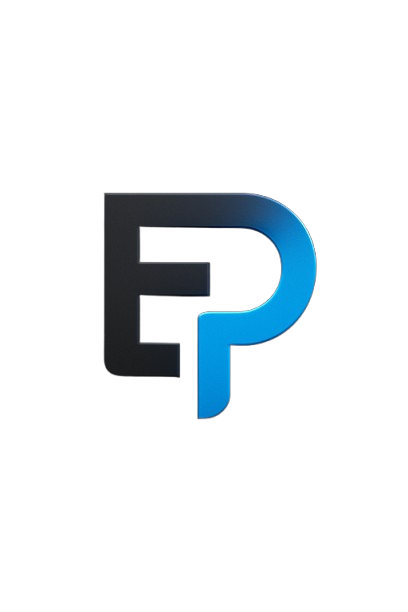
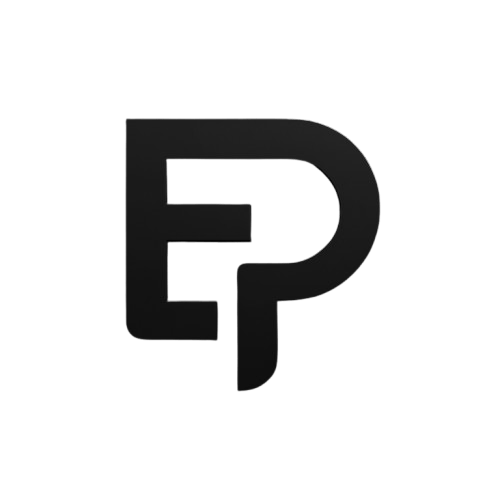
Refactor: UI refactor and footer expansion

Changed region(s): [[0.2353, 0.21, 0.7941, 0.78]]

diff --git a/components/landing/TestimonialSection.jsx b/components/landing/TestimonialSection.jsx
@@ -5,44 +5,44 @@ const TestimonialSection = () => {
     <div id="testimonials" className="m-auto max-w-7xl w-[80%]">
         <p className="section-header">TESTIMONIALS</p>
         <div className="flex justify-center">
-        <div className="grid grid-cols-1 max-w-[12800px] md:grid-cols-2 xl:grid-cols-3 justify-items-center gap-4 xl:gap-6">
-        <TestimonialCard 
-            name={'Kelvin Katwai'}
-            occupation={'Data Scientist Enthusiast'} 
-            testimonial={'What I appreciated most was how straightforward everything felt. The layout is clean, and I didn’t have to fight with the structure to make it my own.'} 
-            testimonailPic={"/assets/testimonials/katwai.jpg"}
-        />
-        <TestimonialCard 
-            name={'Kalama Ayubu'}
-            occupation={'Fullstack developer / Freelancer'} 
-            testimonial={'I used to dread updating my portfolio. EasyPortfolio made it feel like fun.'} 
-            testimonailPic={"/assets/testimonials/me.jpg"}
-        />
-        <TestimonialCard 
-            name={'Rasoa Kadzo'} 
-            occupation={'Product Designer'} 
-            testimonial={'For someone outside traditional dev workflows, it was refreshing to find a setup I could navigate and present my profile without technical overhead.'} 
-            testimonailPic={"/assets/testimonials/siz.jpg"}
-        />
-        <TestimonialCard 
-            name={'Joseph Kagwe'} 
-            occupation={'Economist / Product Manager'} 
-            testimonial={'For someone outside traditional dev workflows, it was refreshing to find a setup I could navigate and present my profile without technical overhead.'} 
-            testimonailPic={"/assets/testimonials/kagwe.jpg"}
-        />
-        <TestimonialCard 
-            name={'Kenyan Ely'} 
-            occupation={'Journalist / Content Creator'} 
-            testimonial={'I wanted a site that reflects professionalism without overcomplicating the process. This did exactly that — and the writing-focused layout helped.'} 
-            testimonailPic={"/assets/testimonials/me3.jpg"}
-        />
-        <TestimonialCard 
-            name={'Joe Indogwa'} 
-            occupation={'Frontend Developer / Tutor'} 
-            testimonial={'It’s ideal for developers who want to showcase projects cleanly. My students even found it useful as a real-world example of modern dev presentation.'} 
-            testimonailPic={"/assets/testimonials/me2.jpg"}
-        />
-        </div>
+            <div className="grid grid-cols-1 max-w-[12800px] md:grid-cols-2 xl:grid-cols-3 justify-items-center gap-4 xl:gap-6">
+                <TestimonialCard 
+                    name={'Kelvin Katwai'}
+                    occupation={'Data Scientist Enthusiast'} 
+                    testimonial={'What I appreciated most was how straightforward everything felt. The layout is clean, and I didn’t have to fight with the structure to make it my own.'} 
+                    testimonailPic={"/assets/testimonials/katwai.jpg"}
+                />
+                <TestimonialCard 
+                    name={'Kalama Ayubu'}
+                    occupation={'Fullstack developer / Freelancer'} 
+                    testimonial={'I used to dread updating my portfolio. EasyPortfolio made it feel like fun.'} 
+                    testimonailPic={"/assets/testimonials/me.jpg"}
+                />
+                <TestimonialCard 
+                    name={'Rasoa Kadzo'} 
+                    occupation={'Product Designer'} 
+                    testimonial={'For someone outside traditional dev workflows, it was refreshing to find a setup I could navigate and present my profile without technical overhead.'} 
+                    testimonailPic={"/assets/testimonials/siz.jpg"}
+                />
+                <TestimonialCard 
+                    name={'Joseph Kagwe'} 
+                    occupation={'Economist / Product Manager'} 
+                    testimonial={'For someone outside traditional dev workflows, it was refreshing to find a setup I could navigate and present my profile without technical overhead.'} 
+                    testimonailPic={"/assets/testimonials/kagwe.jpg"}
+                />
+                <TestimonialCard 
+                    name={'Kenyan Ely'} 
+                    occupation={'Journalist / Content Creator'} 
+                    testimonial={'I wanted a site that reflects professionalism without overcomplicating the process. This did exactly that — and the writing-focused layout helped.'} 
+                    testimonailPic={"/assets/testimonials/me3.jpg"}
+                />
+                <TestimonialCard 
+                    name={'Joe Indogwa'} 
+                    occupation={'Frontend Developer / Tutor'} 
+                    testimonial={'It’s ideal for developers who want to showcase projects cleanly. My students even found it useful as a real-world example of modern dev presentation.'} 
+                    testimonailPic={"/assets/testimonials/me2.jpg"}
+                />
+            </div>
         </div>
     </div>
   )

diff --git a/components/Footer.jsx b/components/Footer.jsx
@@ -1,17 +1,43 @@
+import Image from "next/image";
+import Link from "next/link";
+import { LinkedinIcon, TelegramIcon, TwitterIcon, WhatsappIcon } from "react-share";
+
 const Footer = () => {
   return (
-    <div id="footer" className="w-full bg-gray-300 mt-20 p-4">
-      <div className="max-w-[1200px] m-auto text-center">
-        <p className="text-gray-700 text-sm">
-          © {new Date().getFullYear()} Easy Portfolio. All rights reserved.
-        </p>
-        <p className="text-gray-500 text-xs mt-2">
-          Build with ❤ by Easy portfolio team
-        </p>
-      </div>
+    <>
+    <div id="footer" className="w-full bg-gray-200 mt-20 p-4 pb-0 px-0 lg:pb-4">
+      <div className="max-w-[1280px] m-auto flex flex-col">
+        <div className="flex flex-col lg:items-start mb-20">
+          <div className="flex items-end">
+            <Image 
+              height={200} 
+              width={200} 
+              src={'/assets/EP.png'} 
+              className="w-28 -rotate-90"
+            />
+            <p className="-translate-y-6 -translate-x-6 flex">@ <Link href={'https://easyportfolioo.netlify.app'} className="hover:text-blue-600">easyportfolioo.netlify.app</Link></p>
+          </div>
+          <p className="translate-x-6 -translate-y-5"> #Build Your  <span className="purple-gradient-text">Portfolio</span> in Minutes</p> 
+        </div>
 
-      <div></div>
+        <div className="flex flex-col lg:flex-row border-t border-gray-500 lg:items-center justify-between ml-6">
+          <p className="text-gray-700 text-sm">
+            © {new Date().getFullYear()} Easy Portfolio. All rights reserved.
+          </p>
+          <p className="text-gray-500 text-xs mt-2 ">
+            Build with ❤ by Easy portfolio team
+          </p>
+          <div className="flex flex-nowrap items-end w-fit">
+            <TwitterIcon className="rounded-full p-4 hover:cursor-pointer hover:scale-90 transition-all duration-300"/>
+            <LinkedinIcon className="rounded-full p-4 hover:cursor-pointer hover:scale-90 transition-all duration-300"/>
+            <WhatsappIcon className="rounded-full p-4 hover:cursor-pointer hover:scale-90 transition-all duration-300"/>
+            <TelegramIcon className="rounded-full p-4 hover:cursor-pointer hover:scale-90 transition-all duration-300"/>
+          </div>
+        </div>
+      </div>
     </div>
+    {/* <div className="h-1 w-full purple-gradient-card"/> */}
+    </>
   );
 };
 

diff --git a/components/landing/ProblemSolution.jsx b/components/landing/ProblemSolution.jsx
@@ -58,16 +58,19 @@ const ProblemSolution = () => {
       {/* The solution section */}
       <div className="flex flex-col m-auto gap-6 lg:flex-row lg:w-full lg:justify-between lg:m-auto lg:gap-8 xl:gap-12 mt-10 lg:mt-14">
           <h1 className="text-[30px] lg:hidden text-center m-auto sm:text-3xl md:text-4xl xl:text-5xl max-w-[500px] xl:max-w-[640px] mb-4">Showcase Your Work, Without the Struggle</h1>
-          <div className="relative w-[85%] max-w-[450px] bg-white shadow-xl p-6 lg:p-4 m-auto rounded-2xl overflow-hidden group">
-            <video
-              src="/assets/videos/solutionVid.mp4" // ✅ your actual video path
-              autoPlay
-              muted
-              loop
-              playsInline
-              className="rounded-xl w-full h-auto"
-          />
-          </div>
+          {/* Video presentation */}
+            <div className="relative w-[85%] border-[10px] border-black max-w-[450px] rounded-3xl m-auto overflow-hidden rounded-fu rounded-b-none border-b-0">
+              <video
+                src="/assets/videos/solutionVid.mp4" // ✅ your actual video path
+                autoPlay
+                muted
+                loop
+                playsInline
+                className="w-full h-auto"
+            />
+            {/* <div className="absolute w-24 rounded-full h-3 bg-black top-4 left-28 m-auto"/> */}
+            </div>
+
           <div className="flex flex-col">
               <h1 className="text-[30px] hidden lg:flex sm:text-3xl md:text-4xl xl:text-5xl max-w-[500px] xl:max-w-[640px] mb-4">Showcase Your Work, Without the Struggle</h1>
             <p className="text-gray-500 text-xl m-auto lg:m-0 text-center lg:text-start max-w-[500px] xl:max-w-[550px] px-2">

diff --git a/components/NavBar.jsx b/components/NavBar.jsx
@@ -38,16 +38,18 @@ const NavBar = () => {
   if (dontShowNavBar ) return null;
 
   return (
-    <section className="sticky z-50 flex items-center justify-self-center justify-between w-[88%] max-w-[650px] bg-gray-200 bg-opacity-90 backdrop-blur-sm px-3 top-6 rounded-xl p-1 bottom-0 gap-10 mb-10 sm:mb-12 md:mb-14 lg:mb-16">
+    <>
+    {/* Sticky NavBar */}
+    <section className="sticky z-50 flex items-center justify-self-center justify-between w-[88%] max-w-[650px] bg-gray-200 bg-opacity-90 backdrop-blur-sm px-3 top-6 rounded-xl py-4 bottom-0 gap-10 mb-10 sm:mb-12 md:mb-14 lg:mb-16">
       <div className="items-center align-self-start flex">
         <Image
           src={"/assets/EP.png"}
           width={1000}
           height={1000}
           alt="Logo"
-          className="w-10"
+          className="w-10 -rotate-90"
         />
-        <span className="font-bold text-[20px] hidden sm:flex">
+        <span className=" text-[18px] font-bold purple-gradient-text italic hidden sm:flex">
           Easy Portfolio
         </span>
       </div>
@@ -73,6 +75,7 @@ const NavBar = () => {
         )}
       </nav>
     </section>
+    </>
   );
 };
 

diff --git a/app/templates/page.js b/app/templates/page.js
@@ -20,16 +20,20 @@ const TemplatesPage = async () => {
   console.log(`Templates: ${templates}`)
   
   return (
-    <div className="relative m-auto">
+    <>
       <div className="blur-div"/> 
-      <h1 className="text-black text-center text-4xl md:text-5xl mb-10 max-w-[800px] m-auto">Choose a template</h1>
-      <div className="flex gap-3 sm:gap-5 md:gap-6 flex-wrap items-center justify-center mb-20">
-      {templates?.map((templateData) => (
-        <TemplateCard key={templateData.id} templateData={templateData} />
-      ))}
+      <div className="relative m-auto max-w-7xl w-[80%]">
+        <h1 className="text-black text-center text-4xl md:text-5xl mb-10 max-w-[800px] m-auto">Choose a template</h1>
+        <div className="flex justify-center">
+          <div className="grid grid-cols-1 max-w-[12800px] md:grid-cols-2 xl:grid-cols-3 justify-items-center m-auto gap-4 xl:gap-6">
+            {templates?.map((templateData) => (
+              <TemplateCard key={templateData.id} templateData={templateData} />
+            ))}
+          </div>
+        </div>
       </div>
       <Footer/>
-    </div>
+    </>
   )
 }
 

diff --git a/components/client/editing/ControlBtn.jsx b/components/client/editing/ControlBtn.jsx
@@ -103,8 +103,8 @@ const ControlBtn = ({ templateId, userName }) => {
       )}
 
       {/* Floating MoreVertical button */}
-      <div className="fixed size-10 sm:size-11 lg:size-12 bg-blue-700 top-24 z-40 left-2 shadow-lg shadow-gray-900 bg-opacity-80 backdrop:blur-3xl lg:left-4 rounded-full flex items-center justify-center text-white hover:bg-opacity-100">
-        <MoreVertical onClick={() => setIsOpen(prev => !prev)}  className="scale-50 active:scale-75 hover:cursor-pointer w-full h-full transition-all duration-300"/>
+      <div className="fixed size-10 sm:size-11 lg:size-12 bg-black top-24 z-40 left-2 shadow-lg shadow-gray-800 bg-opacity-80 backdrop:blur-3xl lg:left-4 rounded-full flex items-center justify-center text-white hover:bg-opacity-100">
+        <MoreVertical onClick={() => setIsOpen(prev => !prev)}  className="scale-90 active:scale-75 hover:cursor-pointer transition-all duration-300"/>
       </div>
 
       {/* small screen dropdown */}

diff --git a/components/template/ChooseToUseTemplate.jsx b/components/template/ChooseToUseTemplate.jsx
@@ -51,8 +51,8 @@ const ChooseToUseTemplate = ({ templateId }) => {
 
   return (
     <>
-      <div className="fixed size-10 sm:size-11 lg:size-12 bg-blue-700 top-24 z-40 left-2 shadow-lg shadow-gray-900 bg-opacity-80 backdrop:blur-3xl lg:left-4 rounded-full flex items-center justify-center text-white hover:bg-opacity-100">
-        <MoreVertical onClick={handleMoreHorizontal} className="scale-50 active:scale-75 hover:cursor-pointer w-full h-full transition-all duration-300"/>
+      <div className="fixed size-10 sm:size-11 lg:size-12 bg-black top-24 z-40 left-2 shadow-lg shadow-gray-800 bg-opacity-80 backdrop:blur-3xl lg:left-4 rounded-full flex items-center justify-center text-white hover:bg-opacity-100">
+        <MoreVertical onClick={handleMoreHorizontal} className="scale-90 active:scale-75 hover:cursor-pointer transition-all duration-300"/>
       </div>
 
       {/* The feedback modal */}

diff --git a/app/templates/loading.js b/app/templates/loading.js
@@ -3,8 +3,8 @@ import AllTemplatesSkeleton from "@/components/skeletons/AllTemplates";
 
 export default function Loading() {
   return (
-    <div className="m-auto flex justify-center">
-      <div className="grid grid-cols-1 max-w-[12800px] md:grid-cols-2 lg:grid-cols-3 xl:grid-cols-4 justify-items-center gap-4 xl:gap-6">
+    <div className="m-auto flex justify-center z-0">
+      <div className="grid z-0 grid-cols-1 max-w-[12800px] md:grid-cols-2 lg:grid-cols-3 xl:grid-cols-4 justify-items-center gap-4 xl:gap-6">
         {Array(16).fill(null).map((_, i) => (
           <AllTemplatesSkeleton key={i} />
         ))}

diff --git a/app/page.js b/app/page.js
@@ -10,7 +10,7 @@ import TestimonialSection from "@/components/landing/TestimonialSection"
 const HomePage = () => {
   return (
     <div id="home"  className="relative">
-      {/* Stick blue div for hiding content scrolled up */}
+      {/* Stick blur div for hiding content scrolled up */}
     <div className="blur-div"/> 
     <section className="relative overflow-hidden pb-16 lg:pb-12 pt-12 lg:pt-4 bg-white backdrop:blur-2xl m-auto p-4  flex flex-col items-center text-center">
         <h1 className="mb-6 text-[36px] sm:text-[40px] md:text-5xl lg:text-6xl max-w-[500px] lg:max-w-[640px] text-center">

diff --git a/components/skeletons/AllTemplates.jsx b/components/skeletons/AllTemplates.jsx
@@ -1,7 +1,7 @@
 const AllTemplatesSkeleton = () => {
   return (
-    <div className="flex flex-col mb-4">
-      <div className="h-44 w-72 bg-gray-100 rounded-md animate-pulse" />
+    <div className="flex flex-col mb-5">
+      <div className="h-52 w-72 bg-gray-100 rounded-md animate-pulse" />
       <div className="flex gap-2 items-center bg-red mt-2">
         <div className="h-10 w-12 rounded-full bg-gray-100 animate-pulse"/>
         <div className="w-full h-8 rounded-full bg-gray-100 animate-pulse"/>

diff --git a/components/landing/TestimonialCard.jsx b/components/landing/TestimonialCard.jsx
@@ -3,7 +3,7 @@ import Image from "next/image"
 
 const TestimonialCard = ({ testimonial, testimonailPic, name, occupation}) => {
   return (
-    <div className="border p-4 px-6 rounded-xl flex flex-col max-w-[400px] bg-white">
+    <div className="border p-4 cursor-default px-6 rounded-xl flex flex-col max-w-[400px] bg-white">
         <Quote/>
         <p className="text-gray-500 mb-3">{testimonial}</p>
         <div className="flex gap-4 items-center">

diff --git a/components/TemplateCard.jsx b/components/TemplateCard.jsx
@@ -11,9 +11,6 @@ const TemplateCard = ({ templateData }) => {
   
   const handleSeeDetails = () => {
     router.push(`/templates/${id}`);
-    
-    // Scroll to the top of the page
-    // window.scrollTo({ top: 0, behavior: "smooth" });
   };
 
   return (
